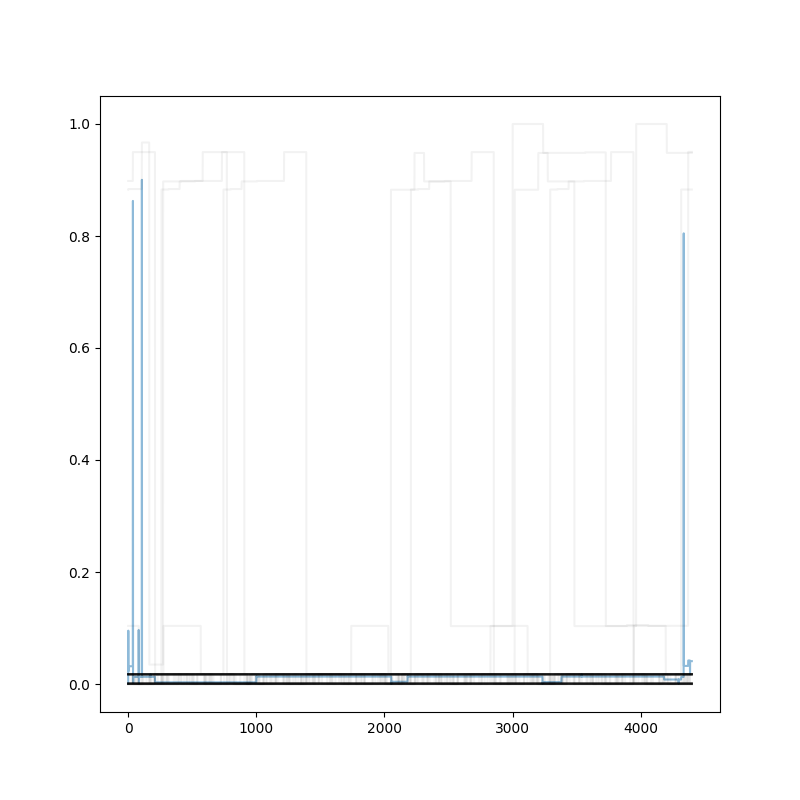
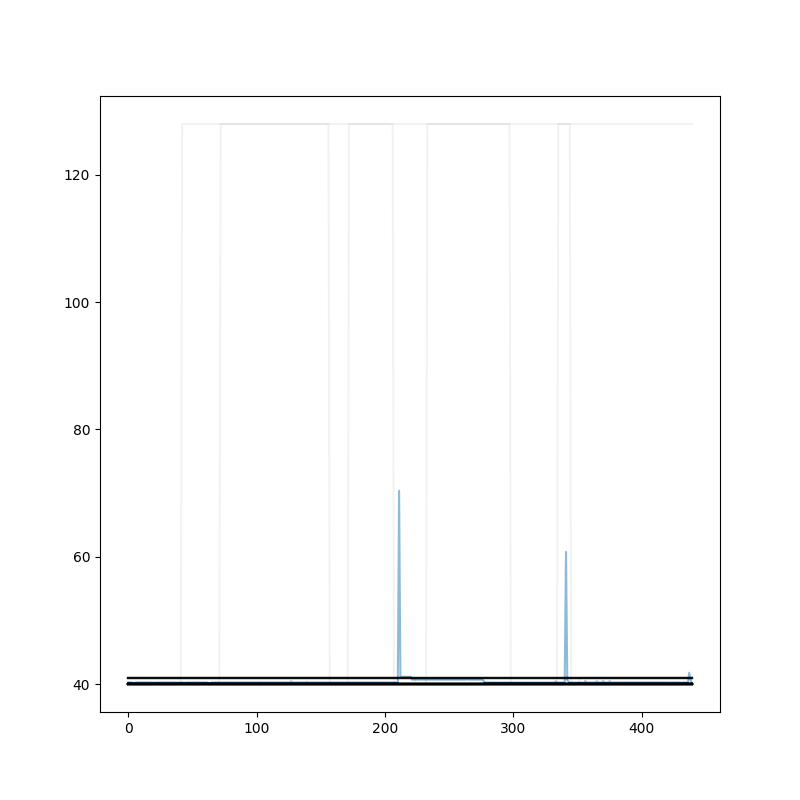
Make clusters on tool number

diff --git a/src/evaluate.py b/src/evaluate.py
@@ -46,37 +46,6 @@ from config import (
 )
 
 
-# class ConformalPredictionModel(RegressorMixin):
-class ConformalPredictionModel(RegressorAdapter):
-    """Implement custom sklearn model to use with the nonconformist library.
-
-    Args:
-        model_filepath (str): Path to ALREADY TRAINED model.
-
-    """
-
-    # def __init__(self, model_filepath):
-    def __init__(self, model):
-        # Load already trained model from h5 file.
-        # self.model = models.load_model(model_filepath)
-        # self.model_filepath = model_filepath
-
-        # super(ConformalPredictionModel, self).__init__(models.load_model(model_filepath), fit_params=None)
-        super(ConformalPredictionModel, self).__init__(model)
-
-    def fit(self, X=None, y=None):
-        # We don't do anything here because we are loading an already trained model in __init__().
-        # Still, we need to implement this method so the conformal normalizer
-        # is initialized by nonconformist.
-        pass
-
-    def predict(self, X=None):
-        predictions = self.model.predict(X)
-        predictions = predictions.reshape((predictions.shape[0],))
-
-        return predictions
-
-
 def evaluate(model_filepath, train_filepath, test_filepath, calibrate_filepath):
     """Evaluate model to estimate power.
 
@@ -109,95 +78,17 @@ def evaluate(model_filepath, train_filepath, test_filepath, calibrate_filepath):
 
     y_pred = None
 
-    if params_split["calibrate_split"] > 0 and not classification:
-        trained_model = models.load_model(model_filepath)
-        # conformal_pred_model = ConformalPredictionModel(model_filepath)
-        conformal_pred_model = ConformalPredictionModel(trained_model)
-
-        m = nn.cnn(
-            X_test.shape[-2],
-            X_test.shape[-1],
-            output_length=1,
-            kernel_size=params_train["kernel_size"],
-        )
-
-        nc = RegressorNc(
-            conformal_pred_model,
-            err_func=AbsErrorErrFunc(),  # non-conformity function
-            # normalizer_model=KNeighborsRegressor(n_neighbors=15)  # normalizer
-            # normalizer=m
-        )
-
-        # nc = NcFactory.create_nc(conformal_pred_model,
-        #     err_func=AbsErrorErrFunc(),  # non-conformity function
-        #     # normalizer_model=KNeighborsRegressor(n_neighbors=15)  # normalizer
-        #     normalizer_model=m
-        # )
-
-        model = IcpRegressor(nc)
-
-        # Fit the normalizer.
-        train = np.load(train_filepath)
-        X_train = train["X"]
-        y_train = train["y"]
-
-        y_train = y_train.reshape((y_train.shape[0],))
-
-        model.fit(X_train, y_train)
-
-        # Calibrate model.
-        calibrate = np.load(calibrate_filepath)
-        X_calibrate = calibrate["X"]
-        y_calibrate = calibrate["y"]
-        y_calibrate = y_calibrate.reshape((y_calibrate.shape[0],))
-        model.calibrate(X_calibrate, y_calibrate)
-
-        print(f"Calibration: {X_calibrate.shape}")
-
-        # Set conformal prediction error. This should be a parameter specified by the user.
-        error = 0.05
-
-        # Predictions will contain the intervals. We need to compute the middle
-        # points to get the actual predictions y.
-        predictions = model.predict(X_test, significance=error)
-
-        # Compute middle points.
-        y_pred = predictions[:, 0] + (predictions[:, 1] - predictions[:, 0]) / 2
-
-        # Reshape to put it in the same format as without calibration set.
-        y_pred = y_pred.reshape((y_pred.shape[0], 1))
-
-        # Build data frame with predictions.
-        my_results = list(
-            zip(
-                np.reshape(y_test, (y_test.shape[0],)),
-                np.reshape(y_pred, (y_pred.shape[0],)),
-                predictions[:, 0],
-                predictions[:, 1],
-            )
-        )
-
-        df_predictions = pd.DataFrame(
-            my_results,
-            columns=["ground_truth", "predicted", "lower_bound", "upper_bound"],
-        )
-
-        save_predictions(df_predictions)
-
-        plot_confidence_intervals(df_predictions)
-
+    if learning_method in NON_DL_METHODS:
+        model = load(model_filepath)
     else:
-        if learning_method in NON_DL_METHODS:
-            model = load(model_filepath)
-        else:
-            model = models.load_model(model_filepath)
+        model = models.load_model(model_filepath)
 
-        y_pred = model.predict(X_test)
+    y_pred = model.predict(X_test)
 
-        if onehot_encode_target:
-            y_pred = np.argmax(y_pred, axis=-1)
-        elif classification:
-            y_pred = np.array((y_pred > 0.5), dtype=np.int)
+    if onehot_encode_target:
+        y_pred = np.argmax(y_pred, axis=-1)
+    elif classification:
+        y_pred = np.array((y_pred > 0.5), dtype=np.int)
 
     if classification:
 
@@ -214,29 +105,6 @@ def evaluate(model_filepath, train_filepath, test_filepath, calibrate_filepath):
         with open(METRICS_FILE_PATH, "w") as f:
             json.dump(dict(accuracy=accuracy), f)
 
-        # ==========================================
-        # TODO: Fix SHAP code
-        # explainer = shap.TreeExplainer(model, X_test[:10])
-        # shap_values = explainer.shap_values(X_test[:10])
-        # plt.figure()
-        # shap.summary_plot(shap_values[0][:,0,:], X_test[:10][:,0,:])
-        # shap.image_plot([shap_values[i][0] for i in range(len(shap_values))], X_test[:10])
-        # input_columns = pd.read_csv(DATA_PATH / "input_columns.csv").iloc[:,-1]
-        # print(input_columns)
-        # shap.force_plot(explainer.expected_value[0], shap_values[0][0])
-
-        # plt.savefig("test.png")
-
-        # feature_importances = model.feature_importances_
-        # imp = list()
-        # for i, f in enumerate(feature_importances):
-        #     imp.append((f,i))
-
-        # sorted_feature_importances = sorted(imp)
-
-        # print("Feature importances")
-        # print(sorted_feature_importances)
-        # ==========================================
 
     # Regression:
     else:

diff --git a/src/visualize.py b/src/visualize.py
@@ -11,6 +11,7 @@ from joblib import load
 
 from config import (
     DATA_PATH,
+    DATA_PATH_RAW,
     INTERVALS_PLOT_PATH,
     METRICS_FILE_PATH,
     NON_DL_METHODS,
@@ -18,6 +19,7 @@ from config import (
     PREDICTION_PLOT_PATH,
     PREDICTIONS_FILE_PATH
 )
+from preprocess_utils import find_files
 
 def visualize(model_filepath, data_filepath):
     """Visualize results of clustering.
@@ -31,7 +33,6 @@ def visualize(model_filepath, data_filepath):
     model = load(model_filepath)
     data = np.load(data_filepath)
     X = data["X"]
-    # print(X.shape)
 
     plt.figure()
     plt.plot(model.labels_)
@@ -39,7 +40,62 @@ def visualize(model_filepath, data_filepath):
     plt.show()
     # print(model.cluster_centers_)
 
-    plot_clusters_2d(model, X)
+    # plot_clusters_2d(model, X)
+    plot_data_and_labels(X, model.labels_)
+
+
+def plot_data_and_labels(X, labels):
+
+    dataset = yaml.safe_load(open("params.yaml"))["profile"]["dataset"]
+    dir_path = str(DATA_PATH_RAW)
+
+    if dataset is not None:
+        dir_path += "/" + dataset
+
+    filepaths = find_files(dir_path, file_extension=".csv")
+
+    dfs = []
+
+    for filepath in filepaths:
+        df = pd.read_csv(filepath)
+        dfs.append(df)
+
+    df = pd.concat(dfs, ignore_index=True)
+
+    df = df.replace(16,0)
+    df = df.replace(40,1)
+    df = df.replace(41,2)
+    df = df.replace(128,3)
+
+    # pn = df["PN"].iloc[4400:]
+
+    print(len(labels))
+    print(len(pn))
+
+
+    # n = X.shape[0] * X.shape[1]
+    # print(X.shape)
+    # print(len(labels))
+
+    # l = []
+
+    # for i in range(len(labels)):
+    #     for j in range(X.shape[1]):
+    #         l.append(labels[i])
+
+    # print(len(l))
+    # X = X.flatten()
+
+    plt.figure()
+    # plt.xlim(0, n)
+    
+    # plt.plot(X)
+    plt.plot(labels, label="labels")
+    plt.plot(pn, label="PN")
+
+    plt.show()
+
+
 
 def plot_clusters_2d(model, X):
 

diff --git a/src/featurize.py b/src/featurize.py
@@ -106,11 +106,13 @@ def featurize(dir_path):
             # Remove feature from input. This is useful in the case that a raw
             # feature is used to engineer a feature, but the raw feature itself
             # should not be a part of the input.
-            if (col not in features) and (col not in output_columns):
+            if col not in features:
+                print(f"Deleting column '{col}'")
                 del df[col]
 
             # Remove feature if it is non-numeric
             elif not is_numeric_dtype(df[col]):
+                print(f"Deleting column '{col}'")
                 del df[col]
 
         if add_rolling_features:
@@ -118,9 +120,9 @@ def featurize(dir_path):
                 df, rolling_window_size, ignore_columns=[]
             )
 
-        if type(remove_features) is list:
-            for col in remove_features:
-                del df[col]
+        # if type(remove_features) is list:
+        #     for col in remove_features:
+        #         del df[col]
 
         # # Save data
         # df.to_csv(

diff --git a/src/train.py b/src/train.py
@@ -56,8 +56,11 @@ def train(filepath):
 
     # Build model
     if learning_method == "timeserieskmeans":
-        # model = cluster.KMeans(n_clusters=2, random_state=0, n_init=50, max_iter=500)
         model = TimeSeriesKMeans(n_clusters=n_clusters, metric="dtw")
+    elif learning_method == "kmeans":
+        X = X.reshape(X.shape[0], X.shape[-1])
+        print(X.shape)
+        model = cluster.KMeans(n_clusters=n_clusters, random_state=0, n_init=50, max_iter=500)
     elif learning_method == "kernelkmeans":
         model = KernelKMeans(n_clusters=n_clusters)
     else:

diff --git a/src/sequentialize.py b/src/sequentialize.py
@@ -47,7 +47,10 @@ def sequentialize(dir_path):
         X = np.load(filepath)
 
         # Split into sequences
-        X = split_cluster_sequences(X, window_size, overlap=overlap)
+        if window_size == 1:
+            pass
+        else:
+            X = split_cluster_sequences(X, window_size, overlap=overlap)
 
         if params["shuffle_samples"]:
             permutation = np.random.permutation(X.shape[0])
